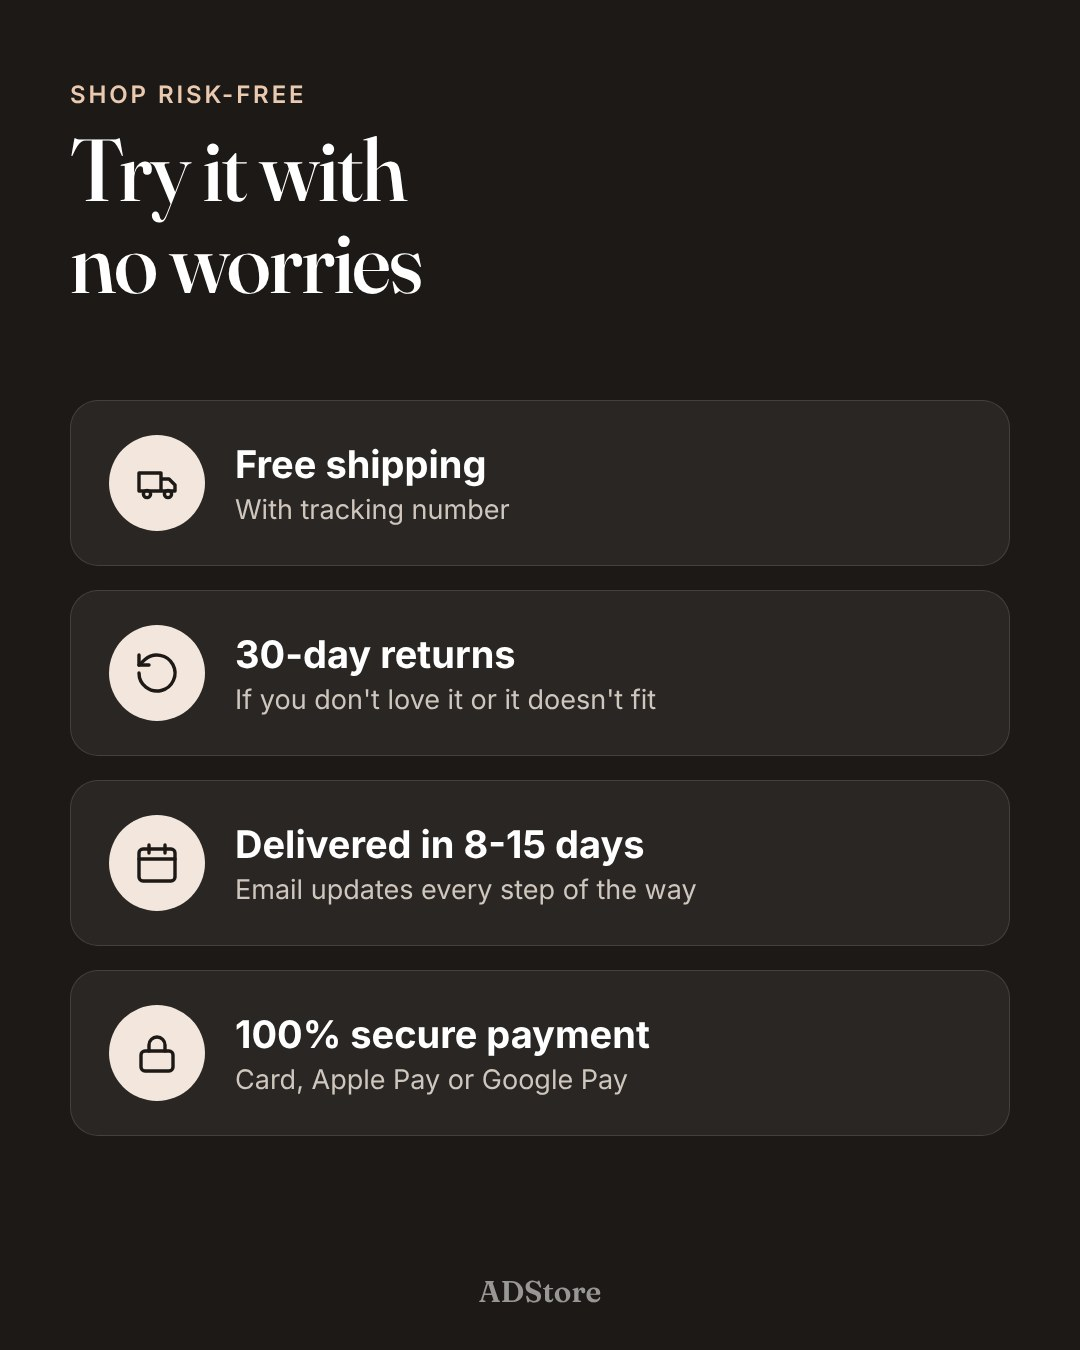
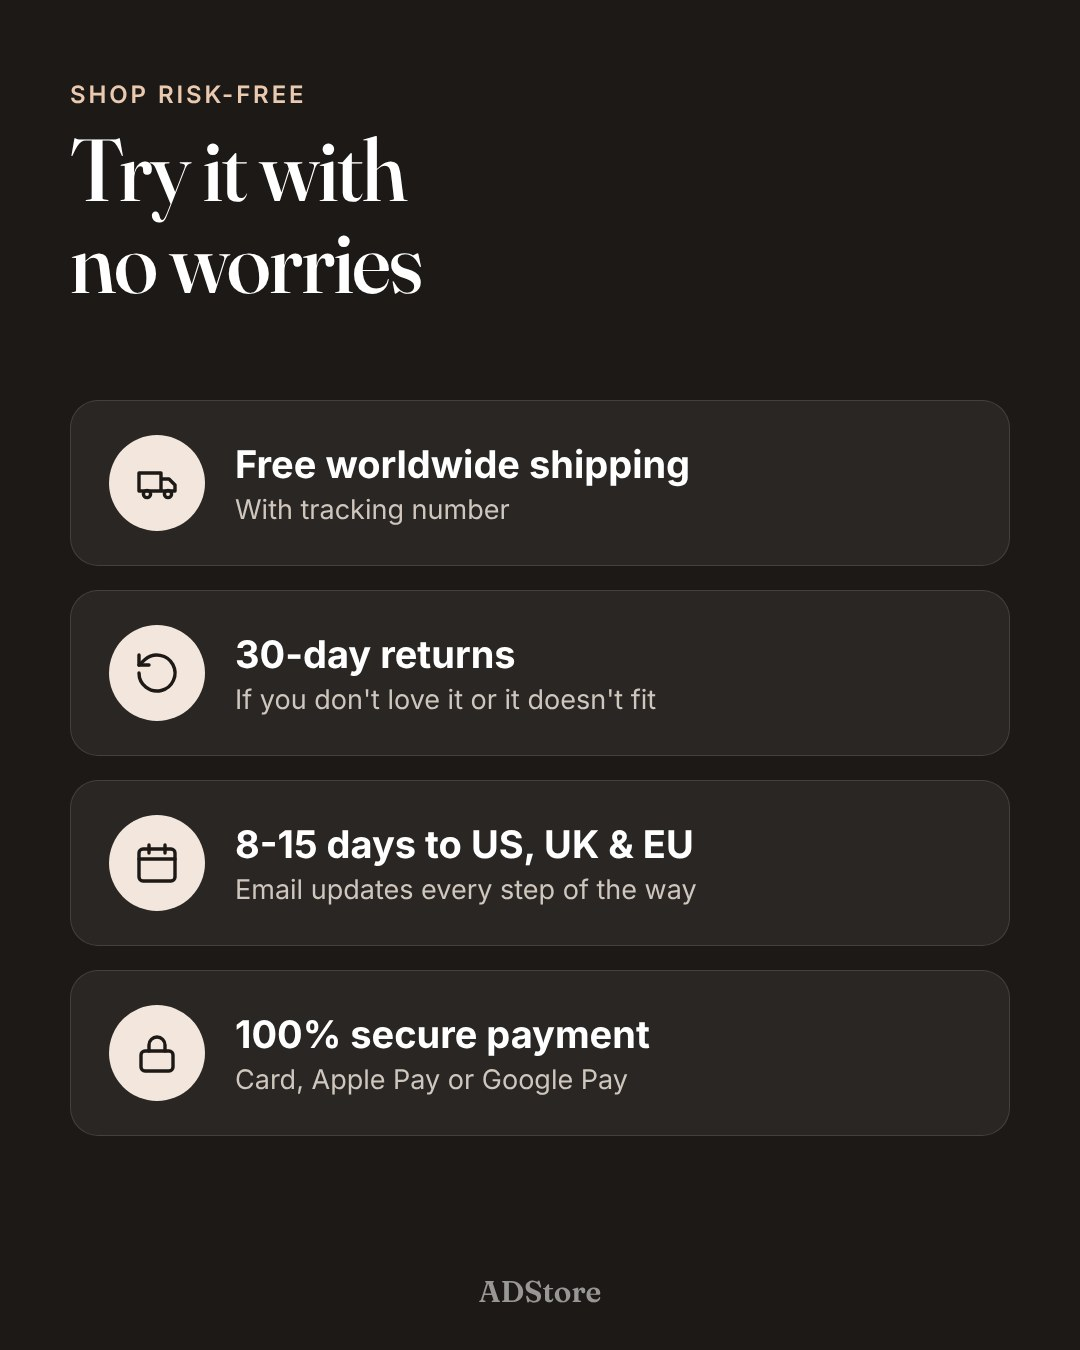
Prices in USD and worldwide shipping
Claude-Session: https://claude.ai/code/session_01RH485xTpp6oqLXpWfLiVdL

Changed region(s): [[0.2139, 0.5911, 0.6417, 0.6533], [0.3056, 0.3111, 0.6417, 0.3733]]

diff --git a/index.html b/index.html
@@ -4,7 +4,7 @@
 <meta charset="utf-8">
 <meta name="viewport" content="width=device-width, initial-scale=1, viewport-fit=cover">
 <title>ADStore</title>
-<meta name="description" content="Free tracked shipping. 100% secure checkout. 30-day returns.">
+<meta name="description" content="Free worldwide tracked shipping. 100% secure checkout. 30-day returns.">
 <meta name="theme-color" content="#fbf8f5">
 <link rel="preconnect" href="https://fonts.googleapis.com">
 <link rel="preconnect" href="https://fonts.gstatic.com" crossorigin>
@@ -14,7 +14,7 @@
 </head>
 <body>
 <div class="announce"><div class="announce-track" id="announce">
-  <span>Free tracked shipping</span><span>30-day returns</span><span>100% secure checkout</span>
+  <span>Free worldwide shipping</span><span>30-day returns</span><span>100% secure checkout</span>
 </div></div>
 
 <header class="site-header">
@@ -64,13 +64,13 @@ const ICONS = {
   ruler: '<svg viewBox="0 0 24 24" fill="none" stroke="currentColor" stroke-width="1.7" stroke-linecap="round" stroke-linejoin="round"><path d="M3 17 17 3l4 4L7 21z"/><path d="m7 13 2 2M10 10l2 2M13 7l2 2"/></svg>',
   plus: '<svg viewBox="0 0 24 24" fill="none" stroke="currentColor" stroke-width="2" stroke-linecap="round"><path d="M12 5v14M5 12h14"/></svg>'
 };
-const fmt = c => new Intl.NumberFormat("en-IE", { style: "currency", currency: (window.CFG && CFG.currency) || "eur" }).format(c / 100);
+const fmt = c => new Intl.NumberFormat("en-US", { style: "currency", currency: (window.CFG && CFG.currency) || "usd" }).format(c / 100);
 const qs = new URLSearchParams(location.search);
 const S = { qty: 1, items: [{ variant: null, size: null }], showErr: false }; // una entrada por unidad
 let P = null;
 
 function addBusinessDays(d, n) { d = new Date(d); while (n > 0) { d.setDate(d.getDate() + 1); if (d.getDay() % 6) n--; } return d; }
-const dShort = d => d.toLocaleDateString("en-GB", { day: "numeric", month: "short" });
+const dShort = d => d.toLocaleDateString("en-US", { month: "short", day: "numeric" });
 
 function unitPrice(qty) {
   const v0 = S.items[0].variant;
@@ -107,7 +107,7 @@ function productPage(p) {
         <span class="price" id="price">${fmt(p.price)}</span>
         ${p.compareAt ? `<s class="compare">${fmt(p.compareAt)}</s><span class="save">You save ${fmt(save)}</span>` : ""}
       </div>
-      <p class="tax small muted">VAT included · Free shipping</p>
+      <p class="tax small muted">Free worldwide shipping</p>
 
       <ul class="checks">${p.bullets.map(b => `<li>${ICONS.check}<span>${b}</span></li>`).join("")}</ul>
 
@@ -136,7 +136,7 @@ function productPage(p) {
       <button class="btn btn-dark btn-buy" id="buy-btn" onclick="buy(this)">Buy now · <span id="btn-total">${fmt(p.price)}</span></button>
       <p class="err-msg" id="buy-err" hidden></p>
 
-      <div class="delivery">${ICONS.truck}<div><b>Order today, get it between ${dShort(from)} and ${dShort(to)}</b><span class="small muted">Free shipping with tracking number</span></div></div>
+      <div class="delivery">${ICONS.truck}<div><b>Order today, estimated delivery ${dShort(from)} – ${dShort(to)}</b><span class="small muted">Free tracked shipping · US, UK &amp; Europe. Other countries may take a bit longer.</span></div></div>
 
       <div class="pay-row">
         <span class="small muted">${ICONS.lock} Secure checkout with</span>
@@ -150,7 +150,7 @@ function productPage(p) {
 
   <section class="trust-strip">
     <div class="wrap trust-grid">
-      <div>${ICONS.truck}<b>Free shipping</b><span>With tracking</span></div>
+      <div>${ICONS.truck}<b>Free shipping</b><span>Worldwide, tracked</span></div>
       <div>${ICONS.ret}<b>30 days</b><span>To return it</span></div>
       <div>${ICONS.lock}<b>Secure payment</b><span>Processed by Stripe</span></div>
     </div>

diff --git a/lib/products.js b/lib/products.js
@@ -1,11 +1,12 @@
 // ÚNICO sitio donde se editan los productos.
 // El precio se lee aquí en el servidor: nadie puede cambiarlo desde el navegador.
-// price = céntimos (2999 = 29,99 €)
+// price = céntimos de dólar (2990 = $29.90)
 module.exports = {
   storeName: "ADStore",
-  currency: "eur",
-  shippingCountries: ["ES", "PT", "FR", "IT", "DE"],
-  freeShippingText: "Free shipping · Delivery in 8-15 days",
+  currency: "usd",
+  // Todos los países que admite Stripe (sin RU/BY por sanciones)
+  shippingCountries: ["AC", "AD", "AE", "AF", "AG", "AI", "AL", "AM", "AO", "AQ", "AR", "AT", "AU", "AW", "AX", "AZ", "BA", "BB", "BD", "BE", "BF", "BG", "BH", "BI", "BJ", "BL", "BM", "BN", "BO", "BQ", "BR", "BS", "BT", "BV", "BW", "BZ", "CA", "CD", "CF", "CG", "CH", "CI", "CK", "CL", "CM", "CN", "CO", "CR", "CV", "CW", "CY", "CZ", "DE", "DJ", "DK", "DM", "DO", "DZ", "EC", "EE", "EG", "EH", "ER", "ES", "ET", "FI", "FJ", "FK", "FO", "FR", "GA", "GB", "GD", "GE", "GF", "GG", "GH", "GI", "GL", "GM", "GN", "GP", "GQ", "GR", "GS", "GT", "GU", "GW", "GY", "HK", "HN", "HR", "HT", "HU", "ID", "IE", "IL", "IM", "IN", "IO", "IQ", "IS", "IT", "JE", "JM", "JO", "JP", "KE", "KG", "KH", "KI", "KM", "KN", "KR", "KW", "KY", "KZ", "LA", "LB", "LC", "LI", "LK", "LR", "LS", "LT", "LU", "LV", "LY", "MA", "MC", "MD", "ME", "MF", "MG", "MK", "ML", "MM", "MN", "MO", "MQ", "MR", "MS", "MT", "MU", "MV", "MW", "MX", "MY", "MZ", "NA", "NC", "NE", "NG", "NI", "NL", "NO", "NP", "NR", "NU", "NZ", "OM", "PA", "PE", "PF", "PG", "PH", "PK", "PL", "PM", "PN", "PR", "PS", "PT", "PY", "QA", "RE", "RO", "RS", "RW", "SA", "SB", "SC", "SE", "SG", "SH", "SI", "SJ", "SK", "SL", "SM", "SN", "SO", "SR", "SS", "ST", "SV", "SX", "SZ", "TA", "TC", "TD", "TF", "TG", "TH", "TJ", "TK", "TL", "TM", "TN", "TO", "TR", "TT", "TV", "TW", "TZ", "UA", "UG", "US", "UY", "UZ", "VA", "VC", "VE", "VG", "VN", "VU", "WF", "WS", "XK", "YE", "YT", "ZA", "ZM", "ZW"],
+  freeShippingText: "Free worldwide shipping",
   // Cada producto tiene su propia página: tudominio.com/<id>  (añade el id también en vercel.json)
   products: [
     {
@@ -62,7 +63,7 @@ module.exports = {
       },
       details: [
         { title: "Description", text: "Strap bodysuit shapewear with an open bust so you can wear your own bra. Compression zone on tummy and waist made of stretchy, breathable fabric." },
-        { title: "Shipping", text: "Free tracked shipping. We prepare your order in 1-3 business days and estimated delivery is 8-15 business days." },
+        { title: "Shipping", text: "Free tracked shipping worldwide. We prepare your order in 1-3 business days. Estimated delivery is 8-15 business days to the US, UK and Europe, and up to 25 business days to other countries." },
         { title: "Exchanges & returns", text: "You have 30 days from delivery. If the size doesn't fit, email us and we'll help you exchange it." },
         { title: "Care", text: "Hand wash in cold water. Do not tumble dry or bleach. Dry flat." }
       ],
@@ -70,7 +71,7 @@ module.exports = {
         { q: "Does it show under clothes?", a: "It's designed not to: no thick seams and a smooth finish." },
         { q: "Can I wear my own bra?", a: "Yes, the bust is open precisely so you can wear yours." },
         { q: "Which size should I choose?", a: "Check the size guide with your waist measurement. If you're between two sizes, choose the larger one." },
-        { q: "How long does delivery take?", a: "Between 8 and 15 business days, with a tracking number sent by email." }
+        { q: "How long does delivery take?", a: "8-15 business days to the US, UK and Europe, up to 25 elsewhere. You get a tracking number by email." }
       ]
     }
   ]

diff --git a/legal.html b/legal.html
@@ -7,7 +7,7 @@
 <h2>Legal notice</h2>
 <p>Owner: [Your name or company] · Tax ID: [NIF] · Address: [address] · Email: [contact email]</p>
 <h2 id="shipping">Shipping</h2>
-<p>Orders are prepared within 1-3 business days. Estimated delivery is 8-15 business days. You'll receive a tracking number by email.</p>
+<p>Orders are prepared within 1-3 business days. We ship worldwide. Estimated delivery is 8-15 business days to the US, UK and Europe, and up to 25 business days to other countries. You'll receive a tracking number by email.</p>
 <h2 id="returns">Returns</h2>
 <p>You have 30 calendar days from delivery to withdraw from your purchase (the EU legal minimum is 14 days). Email us at [email] and we'll explain how to return it. Refunds are issued within 14 days at most.</p>
 <h2 id="privacy">Privacy</h2>
